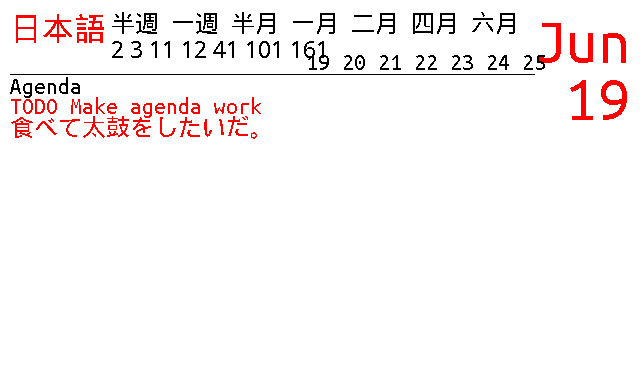
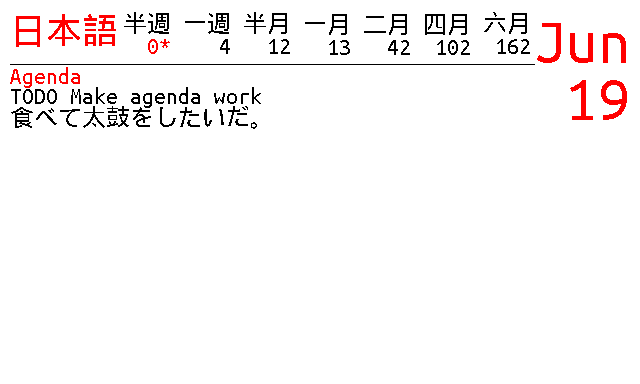
Fixed schedule, header looking alright

Changed region(s): [[0.0312, 0.0312, 0.8438, 0.1875], [0.0, 0.1562, 0.4062, 0.375]]

diff --git a/HomeLifeDisplay.py b/HomeLifeDisplay.py
@@ -117,7 +117,7 @@ def imageConvertMode1BPPToRGB(image):
 # Fonts
 # For Japanese
 fontMicrohei = ImageFont.truetype('/usr/share/fonts/truetype/wqy/wqy-microhei.ttc', 24)
-fontMicroheiHuge = ImageFont.truetype('/usr/share/fonts/truetype/wqy/wqy-microhei.ttc', 32)
+fontMicroheiHuge = ImageFont.truetype('/usr/share/fonts/truetype/wqy/wqy-microhei.ttc', 36)
 # For English
 fontUbuntuMono = ImageFont.truetype('ubuntu-font-family-0.83/UbuntuMono-R.ttf', 24)
 fontUbuntuMonoHuge = ImageFont.truetype('ubuntu-font-family-0.83/UbuntuMono-R.ttf', 64)
@@ -125,7 +125,7 @@ fontUbuntuMonoHuge = ImageFont.truetype('ubuntu-font-family-0.83/UbuntuMono-R.tt
 class Layout:
     def __init__(self):
         self.margins = 10
-        self.topHeader = 74
+        self.topHeader = 64
 
 def drawLayout1BPPImage():
     layout = Layout()
@@ -151,10 +151,10 @@ def drawLayout1BPPImage():
     headerLabelSize = draw.textsize(headerLabel, font = fontMicroheiHuge)
 
     # Study review schedule
-    kanjiSchedule = u''
     # Interval:days
     # kanjiScheduleIntervals = [('T', 3), ('W', 7), ('BM', 15), ('M', 30), ('2M', 60), ('4M', 120), ('6M', 180)]
-    kanjiScheduleIntervalsJapanese = [(u'半週', 3) ,(u'一週', 7), (u'半月', 15), (u'一月', 30), (u'二月', 60), (u'四月', 120), (u'六月', 180)]
+    kanjiScheduleIntervalsJapanese = [(u'半週', 3) ,(u'一週', 7), (u'半月', 15),
+                                      (u'一月', 30), (u'二月', 2 * 30), (u'四月', 4 * 30), (u'六月', 6 * 30)]
     # Keeping the labels only as comments, effectively
     kanjiScheduleStartDates = [('T', datetime.date(2019, 6, 15)),
                                ('W', datetime.date(2019, 6, 1)),
@@ -163,29 +163,33 @@ def drawLayout1BPPImage():
                                ('2M', datetime.date(2019, 5, 31)),
                                ('4M', datetime.date(2019, 5, 31)),
                                ('6M', datetime.date(2019, 5, 31))]
-    # Interval labels
-    for interval in kanjiScheduleIntervalsJapanese:
-        kanjiSchedule += u"{}  ".format(interval[0])
-    kanjiSchedule += "\n"
     # Interval countdowns
     # TODO These don't match up to my actual schedule quite right yet
-    # TODO Make red if below N days (N = 4?)
-    # TODO Make it draw according to width of labels, ubuntu for #s
     for i in range(len(kanjiScheduleIntervalsJapanese)):
-        date = kanjiScheduleStartDates[i]
-        kanjiSchedule += "{} ".format(str((kanjiScheduleIntervalsJapanese[i][1] - (timeNow - date[1]).days) % kanjiScheduleIntervalsJapanese[i][1]))
-    draw.multiline_text((layout.margins + headerLabelSize[0] + 5, layout.margins), kanjiSchedule, font = fontMicrohei, fill = Color_EPaper_Black)
+        label = kanjiScheduleIntervalsJapanese[i][0]
+        labelSize = draw.textsize(label, fontMicrohei)
+        labelWithSpaceSize = draw.textsize(label + u"  ", fontMicrohei) 
 
-    # Shuffle schedule
-    # TODO Only show days if it has any shuffling
-    kanjiShuffleSchedule = ''
-    kanjiShuffleLookaheadDays = 7
-    for futureDay in range(kanjiShuffleLookaheadDays):
-        timeDeltaDays = datetime.timedelta(days=futureDay)
-        timeFuture = timeNow + timeDeltaDays
-        kanjiShuffleSchedule += "{} ".format(timeFuture.strftime("%d"))
-    draw.multiline_text((layout.margins + headerLabelSize[0] + 200, layout.margins + 40), kanjiShuffleSchedule, font = fontUbuntuMono, fill = Color_EPaper_Black)    
-    
+        date = kanjiScheduleStartDates[i]
+        oneDayDelta = datetime.timedelta(days=-1);
+        countdownDays = ((kanjiScheduleIntervalsJapanese[i][1] -
+            (timeNow - date[1] + oneDayDelta).days) % kanjiScheduleIntervalsJapanese[i][1])
+        countdownDaysText = "{}".format(str(countdownDays))
+        # Star for shuffling
+        if countdownDays == 0:
+            countdownDaysText += "*"
+        countdownSize = draw.textsize(countdownDaysText, fontUbuntuMono)
+        
+        scheduleMargin = layout.margins + headerLabelSize[0] + 5
+        intervalOffset = labelWithSpaceSize[0] * i
+        countdownRightAlign = labelSize[0] - countdownSize[0]
+        countdownColor = Color_EPaper_Red if countdownDays <= 3 else Color_EPaper_Black
+        
+        draw.text((scheduleMargin + intervalOffset, layout.margins),
+                  label, font = fontMicrohei, fill = Color_EPaper_Black)
+        draw.text((scheduleMargin + intervalOffset + countdownRightAlign, layout.margins + labelSize[1]),
+                  countdownDaysText, font = fontUbuntuMono, fill = countdownColor, align = "right")
+            
     # Divider
     draw.line((layout.margins, layout.topHeader, epd7in5.EPD_WIDTH - dateTextSize[0] - layout.margins, layout.topHeader),
               fill = Color_EPaper_Black)
@@ -193,9 +197,9 @@ def drawLayout1BPPImage():
     #
     # Body
     #
-    draw.text((layout.margins, layout.topHeader), 'Agenda', font = fontUbuntuMono, fill = Color_EPaper_Black)
-    draw.text((layout.margins, layout.topHeader + 20), 'TODO Make agenda work', font = fontUbuntuMono, fill = Color_EPaper_Red)
-    draw.text((layout.margins, layout.topHeader + 40), u'食べて太鼓をしたいだ。', font = fontMicrohei, fill = Color_EPaper_Red)
+    draw.text((layout.margins, layout.topHeader), 'Agenda', font = fontUbuntuMono, fill = Color_EPaper_Red)
+    draw.text((layout.margins, layout.topHeader + 20), 'TODO Make agenda work', font = fontUbuntuMono, fill = Color_EPaper_Black)
+    draw.text((layout.margins, layout.topHeader + 40), u'食べて太鼓をしたいだ。', font = fontMicrohei, fill = Color_EPaper_Black)
     
     # draw.line((70, 50, 20, 100), fill = 0)
     # draw.rectangle((20, 50, 70, 100), outline = 0)
